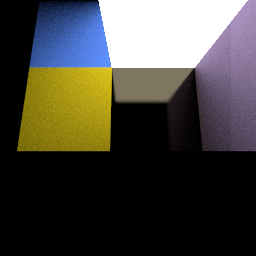
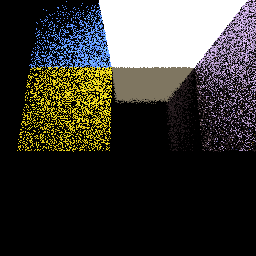
yo

Changed region(s): [[0.0625, 0.0, 1.0, 0.5938], [0.6562, 0.25, 0.6875, 0.2812]]

diff --git a/src/bin.rs b/src/bin.rs
@@ -6,7 +6,7 @@ use lib::render::*;
 const WIDTH: usize = 256;
 const HEIGHT: usize = 256;
 
-const RPP: usize = 500;
+const RPP: usize = 25;
 const RBC: usize = 3;
 
 use lib::*;
@@ -176,63 +176,13 @@ fn main() {
 
     let cubepos = new_vec(0.0, 0.0, 0.0);
 
-    let mut cpurend = CpuRenderer::new(WIDTH, HEIGHT, 500, RBC, 1);
+    let mut cpurend = CpuRenderer::new(WIDTH, HEIGHT, 2, RBC, 1);
     cpurend.scenes[0] = VoxelScene {
         tree: tree,
         root: 1,
         camera_position: campos,
         camera_rotation: rotation,
     };
-
-    /*
-    let buf = CpuAccessibleBuffer::from_iter(
-            device.clone(),
-            BufferUsage::all(),
-            false,
-            (0..WIDTH * HEIGHT * 4).map(|_| 0u8),
-        )
-        .expect("failed to create buffer");
-
-        let command_buffer = AutoCommandBufferBuilder::new(device.clone(), queue.family())
-            .unwrap()
-            .dispatch(
-                [(WIDTH / 8) as u32, (HEIGHT / 8) as u32, RPP as u32],
-                compute_pipeline.clone(),
-                (set.clone()),
-                gen_push_const(campos, right, up, forward, 1),
-            )
-            .unwrap()
-            .dispatch(
-                [(WIDTH / 8) as u32, (HEIGHT / 8) as u32, 1],
-                compute_pipeline2.clone(),
-                (set2.clone()),
-                (),
-            )
-            .unwrap()
-            .copy_image_to_buffer(image.clone(), buf.clone())
-            .unwrap()
-            .build()
-            .unwrap();
-
-        let gpustart = std::time::Instant::now();
-
-        let finished = command_buffer.execute(queue.clone()).unwrap();
-        finished
-            .then_signal_fence_and_flush()
-            .unwrap()
-            .wait(None)
-            .unwrap();
-
-        let gpuend = std::time::Instant::now();
-
-        let buffer_content = buf.read().unwrap();
-        let image =
-            ImageBuffer::<Rgba<u8>, _>::from_raw(WIDTH as u32, HEIGHT as u32, &buffer_content[..])
-                .unwrap();
-        image.save("image2.png").unwrap();
-
-        println!("Gpu took {} ms", (gpuend - gpustart).as_millis());
-    */
 
     let image = StorageImage::new(
         device.clone(),
